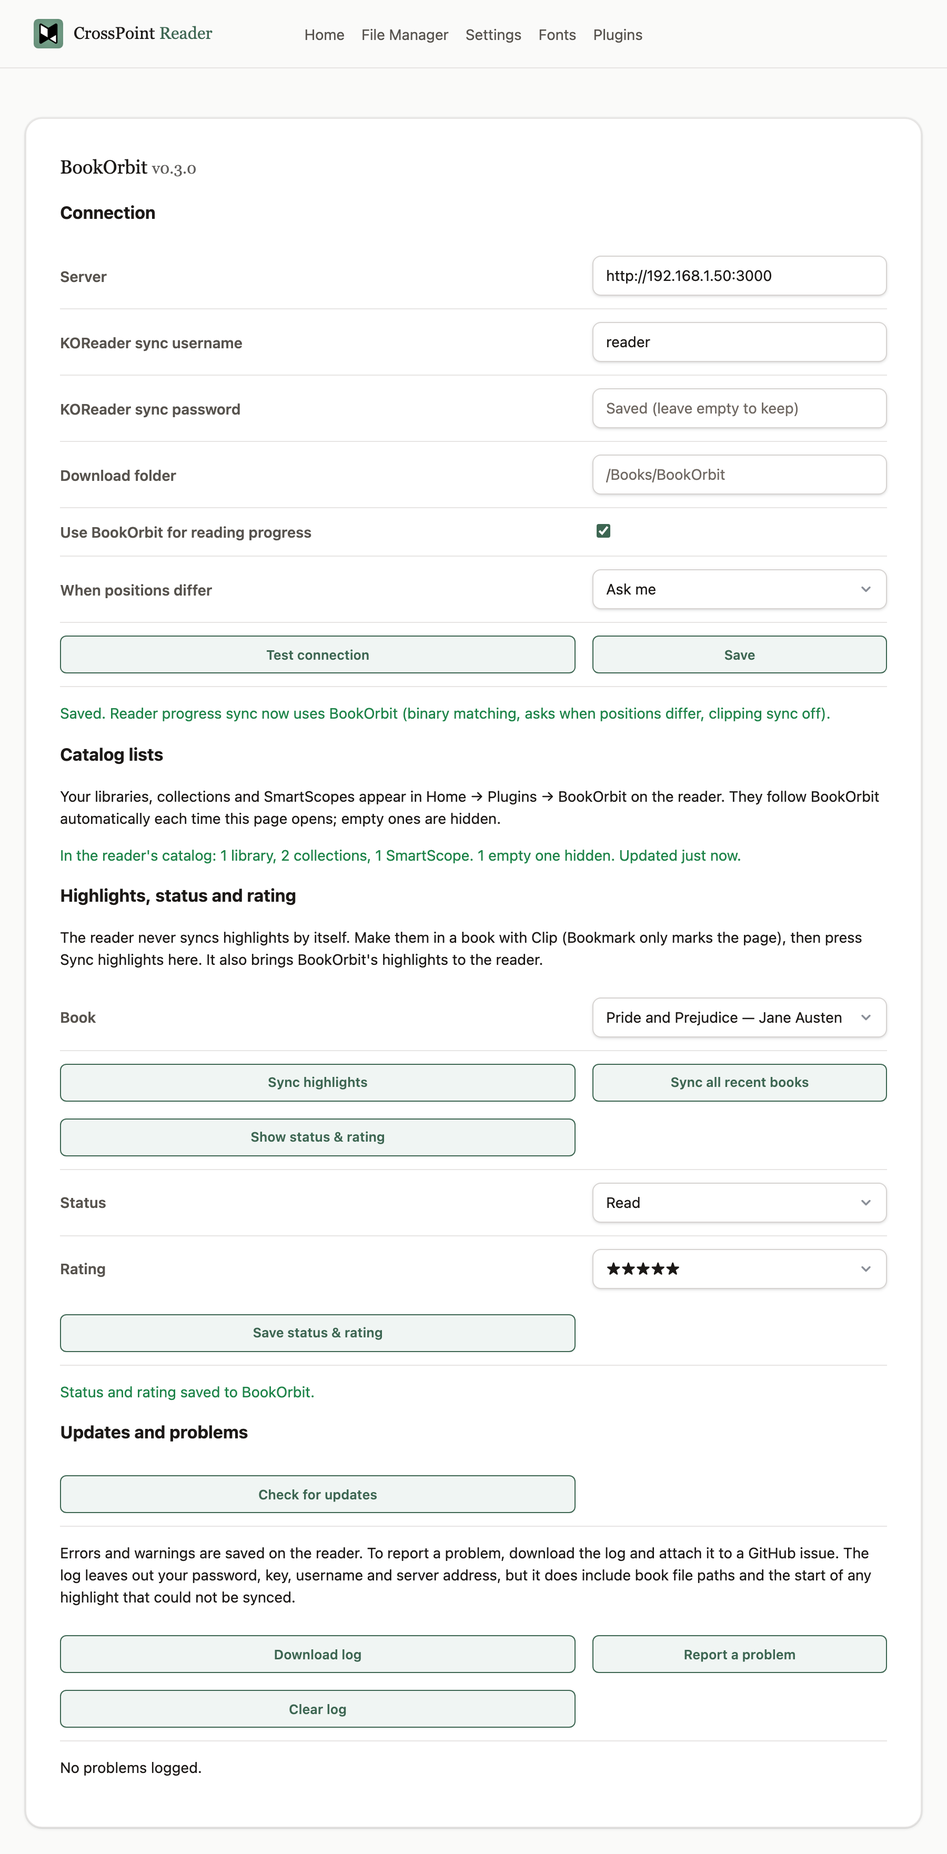
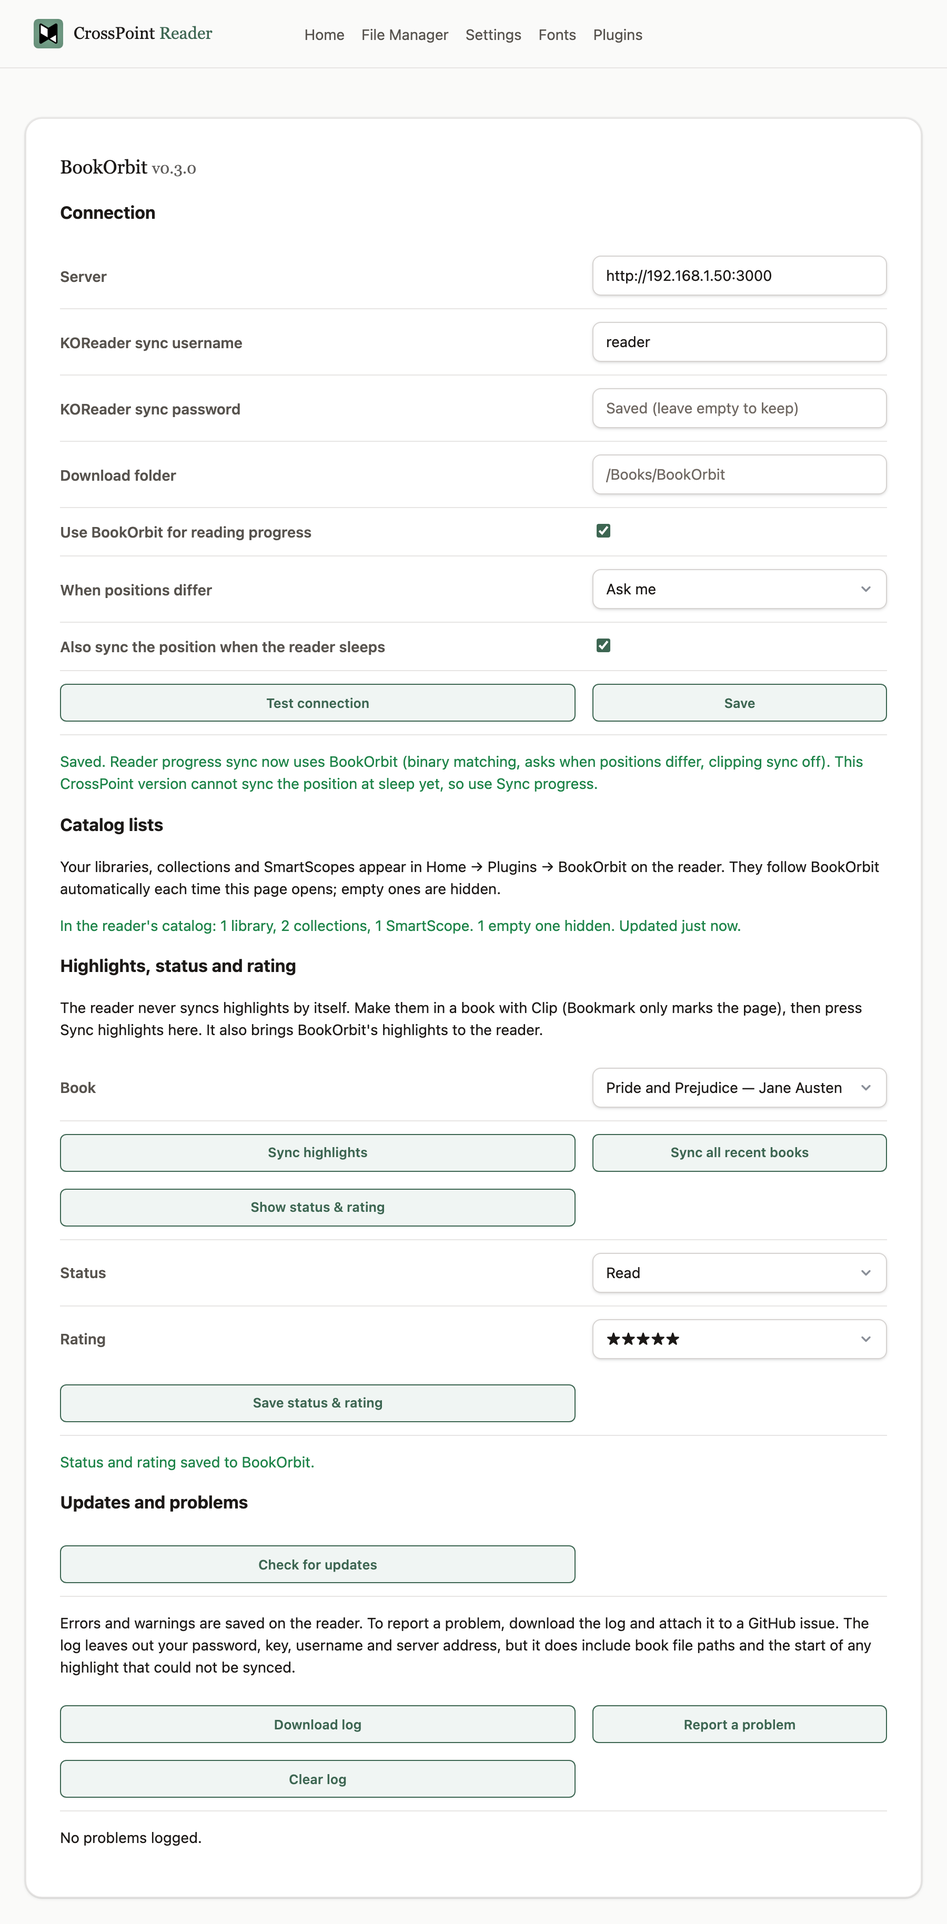
cp-orbit 0.3.1: clearer sleep message, Sync on sleep, sub-path warning
- The reading-session popup at sleep now reads "BookOrbit: reading time
  sent"; it was being taken for a position sync (refs #2).
- Save turns on the firmware's Sync on sleep (koSyncOnSleep, after 2.0.0)
  where it exists, from a new checkbox; on 2.0.0 the card says to use
  Sync progress.
- The card warns when the server address has a path: BookOrbit's download
  links are root-relative and the reader joins them to the host only, so
  catalog downloads fail there (refs #3). Docs give the two working setups.
- README: tip for syncing from another device with the power button.

diff --git a/cp-orbit.crosspoint-plugin/plugin.js b/cp-orbit.crosspoint-plugin/plugin.js
@@ -9,7 +9,7 @@
 (function () {
   'use strict';
 
-  const VERSION = '0.3.0';
+  const VERSION = '0.3.1';
   const PLUGIN_VERSION = 'cp-orbit/' + VERSION;
   const DEVICE_MODEL = 'CrossPoint';
   // User data lives outside the plugin folder so replacing the folder on update keeps it.
@@ -734,6 +734,21 @@
     }
   }
 
+  /**
+   * BookOrbit's download links start at the server root (/api/v1/koreader/plugin/catalog/files/…), and the
+   * firmware joins such paths to the host alone, so a server under a sub-path can browse but not download.
+   */
+  function subPathWarning(server) {
+    let path = '';
+    try {
+      path = new URL(server).pathname.replace(/\/+$/, '');
+    } catch (e) {
+      return '';
+    }
+    if (!path) return '';
+    return 'Books can\'t be downloaded from the reader\'s catalog at this address, because BookOrbit\'s download links leave out ' + path + '. Serve BookOrbit at the root of a host (for example a subdomain), or have your proxy also send ' + KO + '/plugin/catalog/files/ at the root of this host to BookOrbit.';
+  }
+
   // ---------------------------------------------------------------- BookOrbit
 
   function boError(message, status) {
@@ -834,10 +849,12 @@
    * Points the reader's own KOReader sync (progress) at BookOrbit through POST /api/settings.
    * Enum values are firmware indices, which are persisted append-only (src/SettingsList.cpp):
    * koServerType KOSync=1, koMatchMethod Binary=1, koSyncBehavior Ask=0/Smart=1, koSyncClippings Off=0.
+   * koSyncOnSleep (Off=0/On=1) arrived after 2.0.0: it uploads the position at sleep unless BookOrbit is further
+   * ahead (firmware src/sync/SyncOnSleep.cpp). Firmware without it is reported as sleep: 'unsupported'.
    */
-  async function applyKosync(cfg, password, ask, confirmFn) {
+  async function applyKosync(cfg, password, ask, confirmFn, sleepSync) {
     const target = cfg.server + KO;
-    const current = await getSettings(['koServerUrl', 'koUsername', 'koServerType', 'koMatchMethod', 'koSyncBehavior', 'koSyncClippings']);
+    const current = await getSettings(['koServerUrl', 'koUsername', 'koServerType', 'koMatchMethod', 'koSyncBehavior', 'koSyncClippings', 'koSyncOnSleep']);
     if (!current || !current.koServerUrl) throw new Error('This firmware does not offer KOReader sync settings to plugins.');
     const existing = String(current.koServerUrl.value || '').replace(/\/+$/, '');
     if (existing && existing !== target && !confirmFn('The reader\'s progress sync points at ' + existing + '. Replace it with BookOrbit?')) {
@@ -853,9 +870,11 @@
       if (choices(current[key]) === optionCount) update[key] = value;
       else skipped.push(key);
     }
+    const sleep = choices(current.koSyncOnSleep) === 2 ? 'set' : 'unsupported';
+    if (sleep === 'set') update.koSyncOnSleep = sleepSync ? 1 : 0;
     const r = await fetch('/api/settings', { method: 'POST', headers: { 'Content-Type': 'application/json' }, body: JSON.stringify(update) });
     if (!r.ok) throw new Error('The reader refused the sync settings (HTTP ' + r.status + ').');
-    return { update, skipped, passwordKept: !password };
+    return { update, skipped, passwordKept: !password, sleep };
   }
 
   // ---------------------------------------------------------------- shelves
@@ -1562,6 +1581,7 @@
       dest: el('input', { type: 'text', placeholder: DEFAULT_DEST }),
       progress: el('input', { type: 'checkbox', checked: true }),
       ask: el('select', {}, el('option', { value: 'ask' }, 'Ask me'), el('option', { value: 'smart' }, 'Use the furthest automatically')),
+      sleep: el('input', { type: 'checkbox', checked: true }),
     };
     const setupMsg = el('p', { class: 'cp-orbit-msg' });
     const shelfMsg = el('p', { class: 'cp-orbit-msg' });
@@ -1632,7 +1652,8 @@
         const { cfg: next } = formConfig();
         say(setupMsg, 'Connecting…');
         const r = await testConnection(boClient(api, next));
-        say(setupMsg, 'Connected' + (r.username ? ' as ' + r.username : '') + (r.serverVersion ? ' (BookOrbit ' + r.serverVersion + ')' : '') + '.', 'ok');
+        const note = subPathWarning(next.server);
+        say(setupMsg, 'Connected' + (r.username ? ' as ' + r.username : '') + (r.serverVersion ? ' (BookOrbit ' + r.serverVersion + ')' : '') + '.' + (note ? ' ' + note : ''), 'ok');
       } catch (e) {
         fail(setupMsg, 'test-connection', e);
       }
@@ -1650,10 +1671,12 @@
         f.password.placeholder = 'Saved (leave empty to keep)';
         let text = 'Saved.';
         if (f.progress.checked) {
-          const k = await applyKosync(next, password, f.ask.value === 'ask', confirmFn);
+          const k = await applyKosync(next, password, f.ask.value === 'ask', confirmFn, f.sleep.checked);
           if (k.declined) text += ' The reader\'s progress sync was left unchanged.';
           else {
             text += ' Reader progress sync now uses BookOrbit (binary matching, ' + (f.ask.value === 'ask' ? 'asks when positions differ' : 'furthest position wins') + ', clipping sync off).';
+            if (k.sleep === 'set' && f.sleep.checked) text += ' The position also syncs when the reader goes to sleep, unless BookOrbit is further ahead.';
+            else if (k.sleep === 'unsupported' && f.sleep.checked) text += ' This CrossPoint version cannot sync the position at sleep yet, so use Sync progress.';
             if (k.passwordKept) text += ' Enter the password again to update it on the reader too.';
             if (k.skipped.length) {
               text += ' Not set on this firmware: ' + k.skipped.join(', ') + '.';
@@ -1661,7 +1684,8 @@
             }
           }
         }
-        say(setupMsg, text, 'ok');
+        const note = subPathWarning(next.server);
+        say(setupMsg, text + (note ? ' ' + note : ''), 'ok');
         await refreshShelves(next);
       } catch (e) {
         fail(setupMsg, 'save', e);
@@ -1855,6 +1879,7 @@
       row('Download folder', f.dest),
       row('Use BookOrbit for reading progress', f.progress),
       row('When positions differ', f.ask),
+      row('Also sync the position when the reader sleeps', f.sleep),
       el('div', { class: 'setting-row' }, button('Test connection', onTest), ' ', button('Save', onSave)),
       setupMsg,
       el('h3', {}, 'Catalog lists'),
@@ -1884,6 +1909,8 @@
           f.user.value = cfg.user || '';
           f.dest.value = cfg.dest_dir || '';
           if (cfg.key) f.password.placeholder = 'Saved (leave empty to keep)';
+          const note = subPathWarning(cfg.server || '');
+          if (note) say(setupMsg, note, 'error');
         }
         const recent = await readJson(RECENT_PATH);
         const books = ((recent && recent.books) || []).filter((b) => /\.epub$/i.test(b.path || ''));
@@ -1941,6 +1968,7 @@
     restoreShelves,
     describeShelves,
     normalizeServer,
+    subPathWarning,
     deviceDatetime,
     redact,
     createLog,

diff --git a/README.md b/README.md
@@ -113,7 +113,9 @@ You can also do the same by hand in the reader's web page, on the **File Manager
 1. On the reader, open **File Transfer**. Then open the address it shows in a browser on the same Wi-Fi.
 2. Go to the **Plugins** tab and find the **BookOrbit** card.
 3. Enter the server address (for example `http://192.168.1.50:3000`) and your KOReader sync username and password.
-   Press **Test connection**, then **Save**.
+   Press **Test connection**, then **Save**. Use BookOrbit's address at the root of a host: behind a proxy under a
+   path such as `https://example.com/bookorbit`, catalog downloads fail (see
+   [Troubleshooting](#troubleshooting)).
 
 That's all. **Save** does two things:
 
@@ -132,20 +134,31 @@ That's all. **Save** does two things:
 
 ### Reading progress
 
-CrossPoint syncs progress only when you ask, from inside a book:
+CrossPoint syncs progress only when you ask, from inside a book. Open the book, then use **Reader menu → Sync progress**
+(tap or swipe up to open the menu), or a short press of the power button after the setup below.
 
-- **Reader menu → Sync progress** (tap or swipe up to open the menu).
-- Or, if your reader lists it, set **Settings → Controls → Short Power Button Click** to **Sync**, so syncing is one
-  press.
+> [!TIP]
+> **Latest progress from another device.** Set **Settings → Controls → Short Power Button Click** to **CrossPoint
+> Sync**. The Picco lists this choice. Then, whenever you want this book's progress from another device, open the book
+> and short-press the power button. That runs the same sync as **Sync progress**. Choose **Apply remote progress** to
+> jump to the place saved on the other device.
 
 When this reader and BookOrbit disagree, the reader shows both positions: chapter, page, percentage, and the device
 that saved it. Choose **Apply remote progress** to jump to BookOrbit's place, or **Upload local progress** to keep
 this one. If you'd rather not be asked, pick **Use the furthest automatically** on the card.
 
+> [!NOTE]
+> **Going to sleep doesn't sync your position on CrossPoint 2.0.0.** The **"BookOrbit: reading time sent"** message
+> you see at sleep is about your reading time (see below), not your position. A CrossPoint version newer than 2.0.0
+> adds **Sync on sleep**, which uploads your position at sleep unless BookOrbit is already further ahead. Once your
+> reader has it, press **Save** on the card again and the card turns it on, unless you untick **Also sync the
+> position when the reader sleeps**.
+
 ### Reading sessions
 
 Nothing to do. Sessions are recorded as you read and sent whenever the reader connects to Wi-Fi or goes to sleep.
-Sending one twice is harmless, because BookOrbit drops duplicates.
+When one goes out at sleep, the reader shows **"BookOrbit: reading time sent"**. Sending one twice is harmless,
+because BookOrbit drops duplicates.
 
 ### Highlights
 
@@ -229,6 +242,7 @@ rating**.
 | Download folder | Where catalog downloads go. Default `/Books/BookOrbit`. |
 | Use BookOrbit for reading progress | When ticked, **Save** also sets up the reader's progress sync. |
 | When positions differ | **Ask me**, or **Use the furthest automatically**. |
+| Also sync the position when the reader sleeps | On a CrossPoint version with **Sync on sleep** (newer than 2.0.0), **Save** turns it on or off to match. |
 | **Test connection** | Checks the address and login. Saves nothing. |
 | **Save** | Checks the login, saves the settings and, if ticked, sets up progress sync. Nothing is saved if the login fails. |
 | Catalog lists | No button: opening the page (or **Save**) updates the reader's library, collection and SmartScope entries. |
@@ -282,8 +296,10 @@ the start of any highlight that couldn't be synced, so read it before posting. P
 | **My highlight isn't in BookOrbit** | The reader never sends highlights by itself. Make it with **Clip** (not Bookmark), then press **Sync highlights** on the card. See [Highlights](#highlights). |
 | **"… from BookOrbit could not be placed in this book"** | Press **Show which** under the result to see each highlight and why. Most often it spans two chapters, or the book is a different file from BookOrbit's. |
 | **"Sync failed. Could not sync clippings"** | The reader's clipping sync is on, and BookOrbit doesn't support it. Untick **Settings → Connectivity → CrossPoint Sync → Sync Clippings**, or press **Save** on the card again. |
+| **"Sync complete" at sleep, but my position didn't sync** | That message is **"BookOrbit: reading time sent"**: only your reading time went out. On CrossPoint 2.0.0 the position syncs only with **Sync progress**. Newer CrossPoint versions add Sync on sleep; see [Reading progress](#reading-progress). |
 | The Picco isn't in BookOrbit's **Devices** list | That list only shows devices that have uploaded a position. Use **Sync progress** and choose **Upload local progress**. The reader appears as **"CrossPoint"**, a name fixed in the firmware. |
 | The catalog shows an error | Set up the card first, and check that the reader can reach the server address. |
+| Browsing works but downloads fail, behind a proxy under a path | BookOrbit's download links start at the server root, so the reader requests them without your path. Serve BookOrbit at the root of a host (for example a subdomain), or have the proxy also send `/api/v1/koreader/plugin/catalog/files/` at the root of the public host to BookOrbit. |
 | A collection or SmartScope is missing, or all of them after an update | Open the card's web page once; it updates the lists. Empty ones (no books) are hidden. |
 | No reading sessions in BookOrbit | The folder must be `/plugins/cp-orbit`. After installing, open **Home → Plugins** once (or restart the reader), and make sure the reader shows the correct time. |
 | A downloaded book won't open | That book's first file in BookOrbit isn't an EPUB (see [known issues](KNOWN_ISSUES.md)). |
@@ -316,7 +332,7 @@ npm test
 sh scripts/package.sh
 ```
 
-- `npm test` runs 49 tests against a mock BookOrbit and the firmware's rules. They cover the highlight-file format,
+- `npm test` runs 51 tests against a mock BookOrbit and the firmware's rules. They cover the highlight-file format,
   position mapping, the two-way exchange, `device.json` templates, the problem log and its redaction, the update
   notice, the Plugin Hub rules and the release zip.
 - `sh scripts/package.sh` builds `dist/cp-orbit-<version>.zip`.

diff --git a/CLAUDE.md b/CLAUDE.md
@@ -13,7 +13,7 @@ ships as written.
 
 ```bash
 npm ci                     # dev deps only: jszip, linkedom
-npm test                   # node --test tests/*.test.mjs (49 tests, no network)
+npm test                   # node --test tests/*.test.mjs (51 tests, no network)
 node --test tests/core.test.mjs                                   # one file
 node --test --test-name-pattern="sync:" tests/core.test.mjs       # tests whose name matches
 sh scripts/package.sh      # -> dist/cp-orbit-<version>.zip containing one cp-orbit/ folder
@@ -106,9 +106,15 @@ keeps it:
 | `koMatchMethod` | Binary (1) |
 | `koSyncBehavior` | Ask (0) or Smart (1) |
 | `koSyncClippings` | Off (0) |
+| `koSyncOnSleep` | On (1) or Off (0), from the card's checkbox, set only when the firmware offers it (after 2.0.0) |
 
 Enum values are firmware indices. Off/On settings come back from `GET /api/settings` as `type: "toggle"` with no
 `options` array. An earlier bug skipped them because of that, which left clipping sync on and made Sync progress fail.
+
+**Sync on sleep** (firmware `src/sync/SyncOnSleep.cpp`, `develop` after 2.0.0): at sleep it pulls, then uploads the
+position only if the local percentage is at least BookOrbit's. With server type KOSync it skips the bookmark and
+session extras, and with clipping sync off it skips clippings. On 2.0.0 the only thing sent at sleep is cp-orbit's
+`reader.session` ("BookOrbit: reading time sent"), which users can mistake for a position sync.
 
 **Two-way highlights** (`syncHighlights`) are the complex part. They tie together three formats from upstream
 sources:
@@ -153,6 +159,11 @@ Book identity everywhere is KOReader's **partial MD5**: 1 KiB at 0 and at 1024·
   `README.md` at 16KB or less. `manifest.json` `files` must list exactly the payload files.
 - **Book formats:** the catalog filters `format=epub`, because the reader opens only EPUB/TXT/MD/XTC and
   `download.filename` is fixed to `.epub`.
+- **Sub-path servers can't download** (issue #3):
+  - **Why:** BookOrbit's `files[].downloadUrl` is root-relative, and `catalog.server_paths` joins it to the origin
+    only. List items carry no download link, and files download only by file id, so `{cfg.server}{url}` can't work.
+  - **What the card does:** `subPathWarning` warns on load, Test connection and Save.
+  - **The fix lives elsewhere:** in the user's proxy or in BookOrbit, not the plugin.
 - **Test DOM:** tests run `plugin.js` in `node:vm` with linkedom (`tests/helpers.mjs`).
   - **Shims:** linkedom lacks `checkbox.checked` and `select.value`, so the harness shims them. Don't work around
     this in `plugin.js`.

diff --git a/KNOWN_ISSUES.md b/KNOWN_ISSUES.md
@@ -15,6 +15,9 @@
   rebuilt. Bulk download is not offered either: the reader downloads one book at a time.
 - **No automatic progress pull.** Progress syncs when you use **Sync progress**. CrossPoint runs nothing when a book
   opens, and a plugin cannot move the reading position.
+- **No position upload at sleep on 2.0.0.** At sleep, cp-orbit sends only the reading time ("BookOrbit: reading time
+  sent"). A plugin event can't carry the exact position. CrossPoint versions after 2.0.0 add **Sync on sleep**, which
+  uploads the position at sleep only when BookOrbit isn't further ahead; **Save** on the card turns it on there.
 - **The reader never syncs highlights by itself.** They sync when you press **Sync highlights** on the web card.
   Plugin events cannot read files. BookOrbit also does not implement CrossPoint's own clipping-sync endpoint
   (`/api/v1/clippings`), which is why the card turns that sync off.
@@ -31,8 +34,14 @@
 - **EPUB only.** The reader opens EPUB, TXT, Markdown and XTC files, and the download name always ends in `.epub`.
 - **Books with several formats** download the book's first file. If that is not the EPUB, the file will not open.
   Books with one EPUB, the usual case, are fine.
-- **Server under a sub-path** (for example `https://example.com/bookorbit`): downloads may fail. BookOrbit answers
-  with `/api/v1/...` paths, which the reader joins to the host only.
+- **Server under a sub-path** (for example `https://example.com/bookorbit`): browsing, progress, highlights and
+  sessions work, but downloads from the catalog fail.
+  - **Why:** BookOrbit answers with download links that start at the server root
+    (`/api/v1/koreader/plugin/catalog/files/…`), and the reader joins them to the host only, without `/bookorbit`.
+    BookOrbit's book lists carry no download link, so the plugin can't build one itself.
+  - **Fix:** serve BookOrbit at the root of a host (for example `bookorbit.example.com`), or have the proxy also send
+    `/api/v1/koreader/plugin/catalog/files/` at the root of the public host to BookOrbit.
+  - **Warning:** the card shows a warning when the server address has a path.
 - **Libraries, collections and SmartScopes** are written into `device.json` by the web card, which only runs while
   its page is open. A change on the server shows on the reader after the next visit to the card.
   - An update resets the lists to libraries-only until that visit.

diff --git a/cp-orbit.crosspoint-plugin/README.md b/cp-orbit.crosspoint-plugin/README.md
@@ -11,6 +11,8 @@ WHAT IT DOES
   book to download it to /Books/BookOrbit.
 - Reading sessions: every reading session is sent to BookOrbit by itself
   (reading log, streaks, stats), when the reader goes online or to sleep.
+  "BookOrbit: reading time sent" at sleep means the reading time went out,
+  not your position.
 - Reading progress: uses the reader's own KOReader sync, which this plugin
   sets up for you.
 - Highlights, status and rating: from the plugin's card on the reader's
@@ -25,11 +27,15 @@ SET UP (once)
 3. Leave File Transfer. No restart is needed.
 
 SYNC READING PROGRESS
-Inside a book: reader menu > Sync progress. If your reader lists it, you
-can also set Settings > Controls > Short power button to Sync. When the positions
-differ the reader asks: Apply remote progress (jump to BookOrbit's place)
-or Upload local progress (keep this reader's place). The reader never
-syncs progress on its own.
+The reader never syncs progress on its own. Inside a book: reader menu >
+Sync progress. (CrossPoint versions after 2.0.0 add Sync on sleep; press
+Save on the web card again and it is turned on.)
+
+Tip: set Settings > Controls > Short Power Button Click to CrossPoint Sync
+(the Picco lists this). Open the book and short-press the power button
+whenever you want the progress from another device. When the positions
+differ the reader asks: Apply remote progress (jump to the place saved
+on the other device) or Upload local progress (keep this reader's place).
 
 HIGHLIGHTS
 The reader never syncs highlights by itself. To sync them:

diff --git a/docs/release-notes/0.3.1.md b/docs/release-notes/0.3.1.md
@@ -1,0 +1,19 @@
+**cp-orbit 0.3.1**, BookOrbit for CrossPoint.
+
+> **Verified on the BOOX Picco (CrossPoint 2.0.0) only.** Other CrossPoint readers may work but are untested.
+
+## What's new
+
+- **Clearer message at sleep.** The message the reader shows when it goes to sleep now says **"BookOrbit: reading
+  time sent"**. It only ever meant your reading time; your position syncs with **Sync progress** (#2).
+- **Ready for Sync on sleep.** CrossPoint versions newer than 2.0.0 add **Sync on sleep**, which uploads your position
+  when the reader goes to sleep, unless BookOrbit is already further ahead. Once your reader has it, press **Save** on
+  the card and it is turned on. Untick **Also sync the position when the reader sleeps** if you'd rather not.
+- **Warning for servers under a path.** Behind a proxy at an address like `https://example.com/bookorbit`, BookOrbit's
+  download links leave out the path, so catalog downloads fail. The card now says so, and the README explains two
+  setups that work (#3).
+
+## Update
+
+On the reader: **Home → Plugins → Plugin Hub → BookOrbit → Update**. Or use **Sync progress**, then copy the new
+`cp-orbit` folder over the old one. No restart is needed. Settings are kept in `/.cp-orbit/`.

diff --git a/.claude/skills/deploy-to-picco/SKILL.md b/.claude/skills/deploy-to-picco/SKILL.md
@@ -60,7 +60,7 @@ If the user also has the older `bookorbit-sync` plugin, they should remove it. O
 - **Progress:** in a book, reader menu → Sync progress shows "Progress found!" with Apply/Upload when the positions
   differ. "Could not sync clippings" means the reader's clipping sync is on: Save on the card turns it off, or untick
   Settings → Connectivity → CrossPoint Sync → Sync Clippings.
-- **Sessions:** read for a minute or more, then sleep. Expect the "BookOrbit: reading session sent" message.
+- **Sessions:** read for a minute or more, then sleep. Expect the "BookOrbit: reading time sent" message.
 - **Screenshots:** **Power + Down** saves a BMP in `/screenshots/`. Fetch it with
   `curl -o shot.bmp "http://<reader-ip>/download?path=/screenshots/<file>.bmp"`. List the folder with
   `curl "http://<reader-ip>/api/files?path=/screenshots"`. The `readme-media` skill can frame these screenshots.
